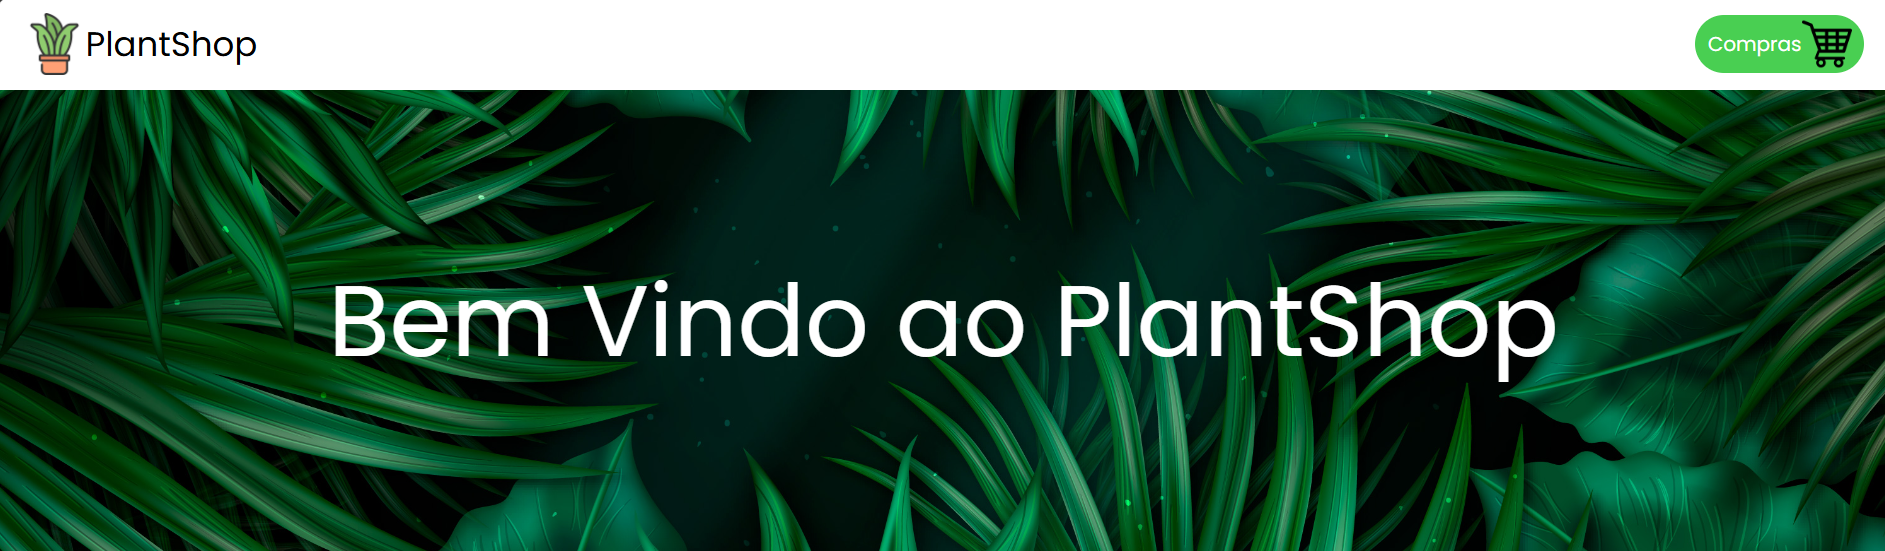
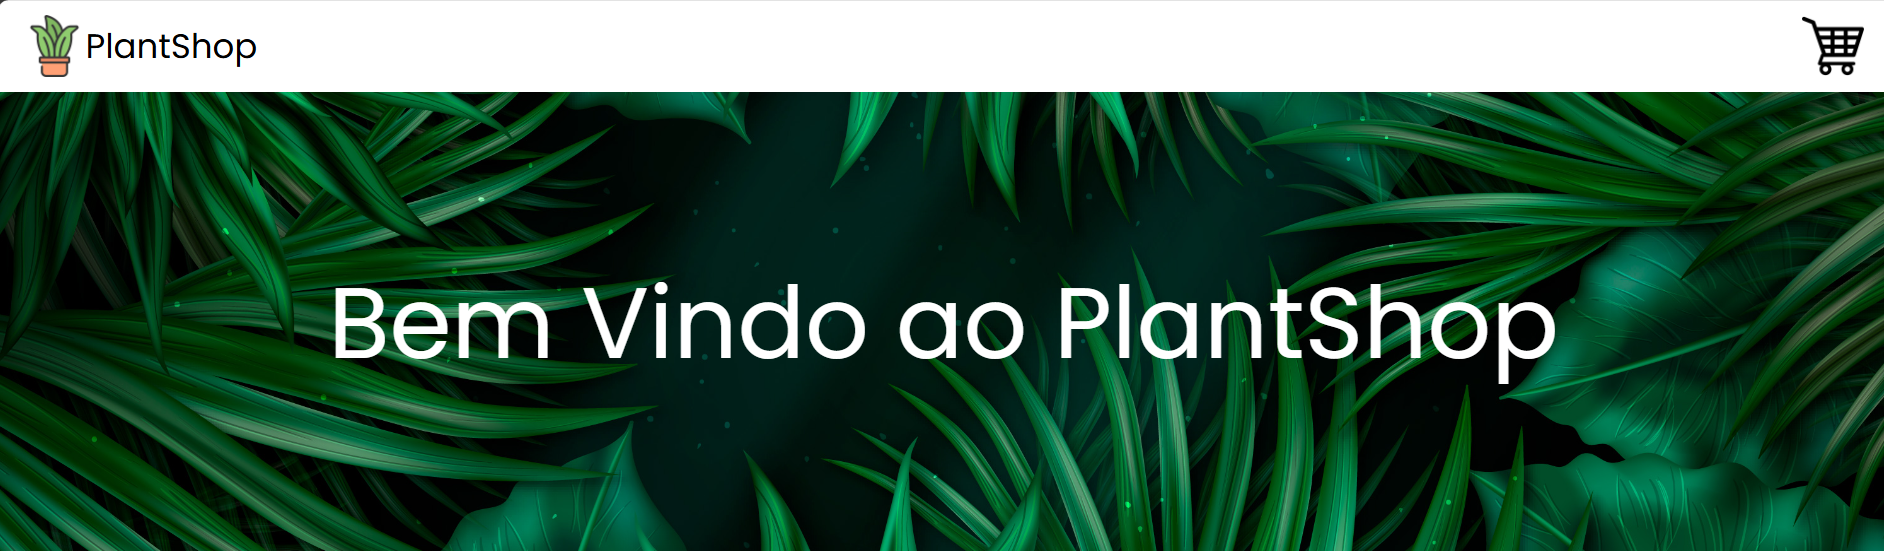
plantshop

diff --git a/my-app/src/App.css b/my-app/src/App.css
@@ -24,6 +24,11 @@
   padding: 0 20px;
 }
 
+.menu img{
+  width: 50px;
+  height: 50px;
+}
+
 /*---Logo---*/
 .logo{
   display: flex;
@@ -39,22 +44,6 @@
 .logo h3{
   font-size: 1.7rem;
   font-weight: 400;
-}
-
-/*---Compra---*/
-.compra{
-  display: flex;
-  align-items: center;
-  justify-content: center;
-  background-color: var(--color-green);
-  color: var(--color-white);
-  padding: 3px 10px;
-  border-radius: 30px;
-}
-
-.compra img{
-  width: 40px;
-  height: 40px;
 }
 
 /*---Banner---*/

diff --git a/my-app/src/App.js b/my-app/src/App.js
@@ -11,10 +11,7 @@ function App() {
           <img src={logo} alt='logo'></img>
           <h3>PlantShop</h3>
         </div>
-        <div className='compra'>
-          <p>Compras</p>
-          <img src={carrinho} alt='carrinho'></img>
-        </div>
+        <img src={carrinho} alt='carrinho'></img>
       </div>
       <div className='banner'>
         <h1>Bem Vindo ao PlantShop</h1>
